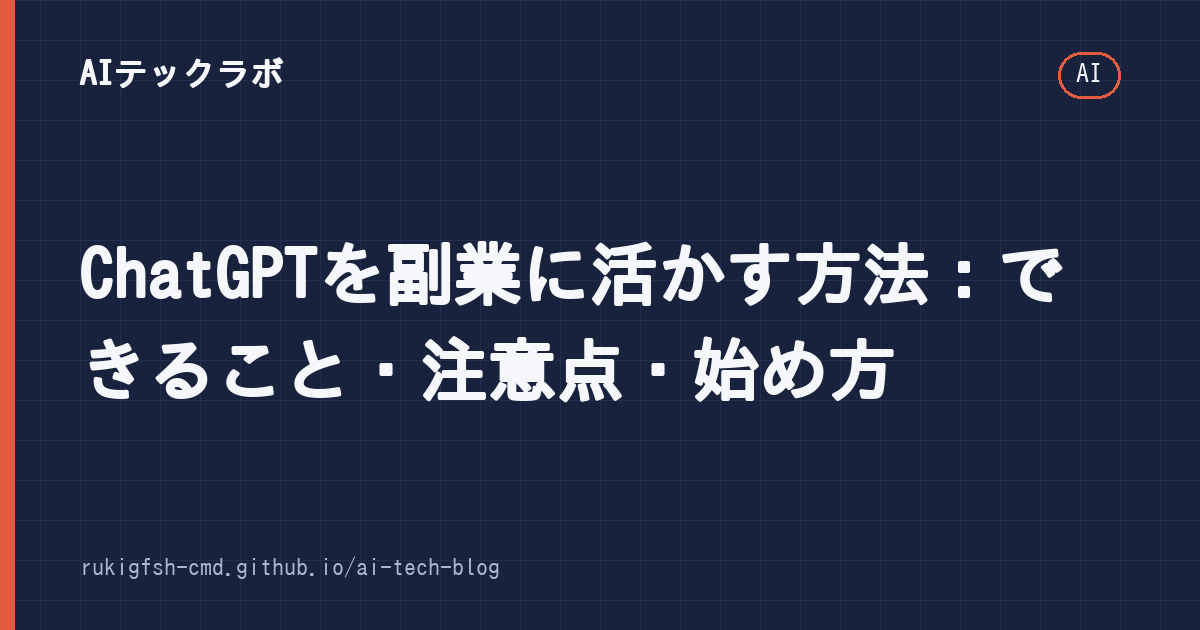
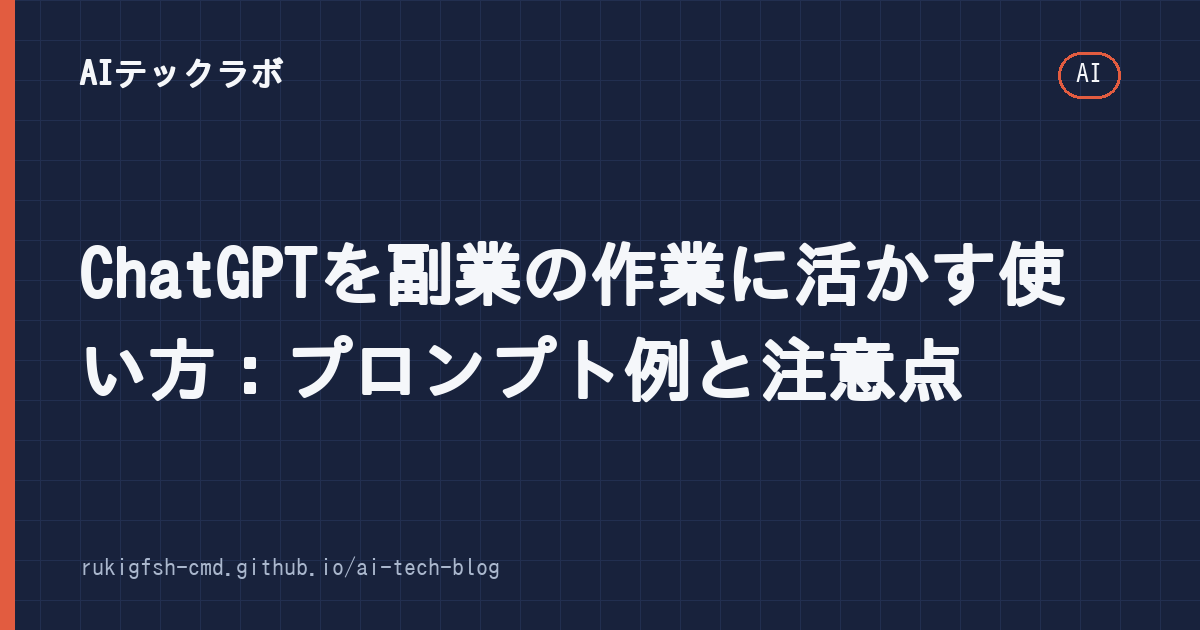
[auto-publish] ChatGPT副業記事を全面改稿（収益の約束・転載の推奨を削除し、作業別の使い方に）
Claude-Session: https://claude.ai/code/session_01LHbLs1fvDWffKN95ZTvk6U

Changed region(s): [[0.0617, 0.5127, 0.8017, 0.6333], [0.4317, 0.3619, 0.8942, 0.4825]]

diff --git a/_posts/2026-09-19-chatgpt-副業-活用.md b/_posts/2026-09-19-chatgpt-副業-活用.md
@@ -1,67 +1,155 @@
 ---
 layout: "post"
-title: "ChatGPTを副業に活かす方法：できること・注意点・始め方"
+title: "ChatGPTを副業の作業に活かす使い方：プロンプト例と注意点"
 date: "2026-09-19 00:00:00 +0900"
-description: "ChatGPTを使って副業を始める人が増えています。本文将介绍AIを使った具体的な収益化手法、必要なスキルと注意点"
+last_modified_at: 2026-11-19
+description: "ChatGPTを副業の「作業」に使う具体的な方法を、そのまま使えるプロンプト例つきで解説。提案文、下書き、校正、表計算、調べものの整理など。著作権・守秘・規約で失敗しないための注意点もまとめます。"
 categories:
   - AI
   - 副業
 tags:
   - ChatGPT
   - 副業
-  - 活用
+  - プロンプト
 author: "AIテックラボ編集部"
 image: "/assets/images/chatgpt-副業-活用.png"
+pr: false
 ---
 
-## 目次
+「ChatGPTで副業」と聞くと「AIに任せて自動で稼ぐ」ような話を想像しがちですが、現実的なのは**自分の副業の作業をChatGPTで速く・楽にする**使い方です。
 
-1. [1. AIエージェント作成でフリーランス市場参入](#1-aiエージェント作成でフリーランス市場参入)
-2. [2. コンテンツファーム運営](#2-コンテンツファーム運営)
-3. [3. プログラミングコード作成支援](#3-プログラミングコード作成支援)
-4. [4. SNS運用代行](#4-sns運用代行)
-5. [注意点とリスク](#注意点とリスク)
+この記事では、どんな副業でも使いやすい作業ごとの使い方を、そのまま使えるプロンプト（指示文）の例つきで紹介します。副業の選び方や税金などの全体像は「[AI副業の始め方]({% post_url 2026-10-07-ai-副業-始め方 %})」にまとめています。
 
----
+**最初に大事な前提**：ChatGPTを使っても、収入が保証されるわけではありません。仕事を取れるか、続けられるかは、品質・実績・やりとりの丁寧さで決まります。AIは「作業時間を短くする道具」と考えるのが失敗しないコツです。
 
-## 1. AIエージェント作成でフリーランス市場参入
+## 結論：AIに任せるのは「下書き」と「整理」、仕上げと確認は自分
 
-ChatGPTなどのLLM（大規模言語モデル）を活用した副業の最も確実な方法は「AIエージェント」制作です。
-企業は人手不足で自動化ツールを求めているため、以下のサービスが需要があります：
+| 作業 | ChatGPTが得意 | 自分でやること |
+|---|---|---|
+| 提案文・メール | 下書き、言い回しの改善 | 相手に合わせた中身、最終確認 |
+| 文章の仕事 | 構成案、下書き、言い換え、誤字チェック | 事実確認、独自の内容、仕上げ |
+| 表計算・資料 | 関数の作り方、表の整理 | 計算結果の確認 |
+| 調べもの | 論点の整理、質問リスト作り | 出典での確認（AIの答えをそのまま信じない） |
+| プログラム | 小さなコードの下書き、エラーの読み解き | 動作確認、テスト |
 
-- ウェブサイトのカスタマーサポートチャットボットの構築
-- SNS投稿の自動生成とスケジュール管理
-- 業務報告書の自動作成・整形
-- データ分析レポートの作成支援
+## 使い方1：クラウドソーシングの提案文を整える
 
-これらの制作料は10万〜30万円程度で取引されます。初級者でもテンプレートを活用すれば、1ヶ月で2〜3案件を獲得可能です。
+ランサーズやクラウドワークスなどで仕事に応募するとき、提案文の下書きや見直しに使えます。
 
-## 2. コンテンツファーム運営
+```text
+次の募集内容に応募する提案文を作りたいです。
+・私の経歴：（例：事務職5年、Excelでの集計作業が得意）
+・できること：（例：Excelの関数・ピボットテーブル、データ入力）
+・募集内容：（ここに募集文を貼る）
 
-SEO記事を書く時間を半減させる手法です。
-ChatGPTに「旅行ガイド」「レシピ」「育児Tips」などのテーマを指定し、人間らしさを持たせるように書かせます。
- afterwardly Google検索結果上位に表示され、広告収入を得る仕組みになります。
+条件：
+・400字以内、丁寧だが堅すぎない文体
+・募集内容のどこに自分が役立てるかを具体的に
+・できないことは書かない
+```
 
-注意点として、Googleのスパム対策により単純なAI生成コンテンツはペナルティを受けます。
-そのため「AIが書いた」と明記した上で、事実確認や独自体験を補足することが必須です。
+**注意**：経歴や実績を盛った文章をそのまま送るのは絶対にやめましょう。AIは書かれていない実績を「それらしく」補うことがあります。送る前に、事実と違う部分がないか必ず確認してください。
 
-## 3. プログラミングコード作成支援
+## 使い方2：文章の仕事の「構成案」と「下書き」
 
-開発者向けにコードサンプルやバグ修正提案を行うサービスがあります。
-StackOverflowなどのQ&Aサイトをスクレイピングし、ChatGPTで回答を再構成して有料コンテンツとして販売します。
+ライティングの仕事では、構成案づくりや、自分のメモを文章にする作業が速くなります。
 
-Pythonの自動化スクリプト、Reactのコンポーネント例など、技術的な価値があるものは特に需要が高いです。
+```text
+「在宅ワーク初心者向け・作業部屋の作り方」というテーマで、
+3,000字程度の記事の構成案（見出しと、各見出しで書く内容の要点）を作ってください。
+読者は、これから在宅ワークを始める会社員です。
+```
 
-## 4. SNS運用代行
+ただし、**AIの文章をそのまま納品するのは避けましょう**。
 
-企業のInstagramやTwitter運用は専門知識が必要です。
-ChatGPTに「ターゲット：20〜30歳の女性」「トーン：親しみやすく」「フォーマット：画像＋短文」などの指示を出し、投稿文案を生成します。
+- 事実の間違いが混ざることがあります（数字、制度、製品の情報など）。
+- 依頼主がAIの使用を禁止・制限している場合があります。**募集要項や契約で、AIを使ってよいか確認**してください。わからなければ質問しましょう。
+- 検索エンジン向けの記事なら、Google は中身の薄いページを大量に作ることを[スパムポリシー](https://developers.google.com/search/docs/essentials/spam-policies)で禁止しています。自分で確かめた情報や経験を加えることが大切です。
 
-1つのアカウントで複数のクライアントを受託すれば、月収5万以上も現実的でしょう。ただし、アカウント管理（ハッキング対策）のスキルが求められます。
+## 使い方3：校正と言い換え
 
-## 注意点とリスク
+書き上げた文章の誤字脱字チェックや、読みやすさの改善に向いています。
 
-- AI生成コンテンツは著作権問題が発生する可能性があります
-- クライアントには「AIをどう使うか」を説明し、信頼関係を築くことが重要
-- 完全自動化ではなく、人間による監修を入れるのが長続きのコツ
-- 税務署への申告漏れに注意（雑報収入として処理）
+```text
+次の文章の誤字脱字と、意味がわかりにくい箇所を指摘してください。
+修正案は「元の文 → 修正案」の形で、理由も一言添えてください。
+文章の内容や主張は変えないでください。
+
+（ここに文章を貼る）
+```
+
+「修正した全文を出して」と頼むと、気づかないうちに内容まで変わることがあります。**指摘だけをもらって、自分で直す**ほうが安全です。
+
+## 使い方4：Excel・スプレッドシートの関数を作る
+
+データ入力や集計の仕事で、関数やマクロの作り方を聞くのに便利です。
+
+```text
+Googleスプレッドシートで、A列に日付、B列に担当者名、C列に金額があります。
+担当者ごと・月ごとの合計金額を別のシートに表示したいです。
+使う関数と、入力する式を教えてください。
+```
+
+出てきた式は、**少ないデータで結果が正しいか確かめてから**本番のデータに使いましょう。
+
+## 使い方5：調べものの「整理」
+
+新しい分野の仕事を受けるときに、何を調べればいいかを整理するのに使えます。
+
+```text
+「インボイス制度」について、フリーランスの副業者が確認すべきポイントを
+質問リストの形で10個挙げてください。
+答えは書かず、質問だけにしてください。
+```
+
+答えそのものは、国税庁などの**公式な情報で確認**しましょう。ChatGPTは古い情報や間違った情報をもっともらしく答えることがあります。
+
+## 使い方6：お客さんとのやりとりの文面
+
+納期の相談、修正依頼への返信、お礼のメールなど、言葉選びに迷うときの下書きに使えます。
+
+```text
+クライアントから修正依頼が3回目に来ました。
+今回は対応しますが、次回以降は追加料金になることを、
+角が立たないように伝える返信文を作ってください。
+```
+
+## 使い方7：小さなプログラムやエラーの相談
+
+簡単な自動化スクリプトや、エラーメッセージの意味を聞くのに便利です。コードは**必ず自分の環境で動かして確認**し、他人のサーバーやサービスに負担をかける使い方（規約で禁止されたスクレイピングなど）は避けてください。
+
+自動化に興味があれば「[n8nの使い方入門]({% post_url 2026-09-16-n8n-自動化-使い方 %})」も参考になります。
+
+## やってはいけないこと
+
+### 1. 他人の文章やコードを集めて「作り直して」売る
+
+他サイトの記事やQ&Aの回答をAIで言い換えて販売するのは、著作権の侵害や各サイトの規約違反になるおそれがあります。AIを通しても、元の文章の権利がなくなるわけではありません。
+
+### 2. お客さんの秘密の情報をそのまま入力する
+
+依頼主から預かった資料や個人情報を、許可なくAIサービスに入力しないでください。契約で禁止されていることもあります。どうしても使う場合は、名前や数字を伏せる、依頼主に確認する、などの対応をしましょう。ChatGPTには会話を学習に使わせない設定もあります（設定画面の名称は変わることがあるので、OpenAI の公式ヘルプで確認してください）。
+
+### 3. 「AIで誰でも簡単に稼げる」と人に勧める
+
+根拠のない収益の約束は、トラブルのもとです。自分が情報発信をする場合も、収益の話は前提条件と幅を書きましょう。アフィリエイトなどで広告を含めるときは、ステマ規制（[消費者庁](https://www.caa.go.jp/policies/policy/representation/fair_labeling/stealth_marketing/)）に従って「広告」「PR」と表示する必要があります。
+
+### 4. サービスごとのAIルールを無視する
+
+出品・納品先のサービスにはAIに関するルールがあります。たとえばココナラでは、AIで生成したイラストの納品が禁止されています（[ココナラのお知らせ](https://coconala.com/news/917)）。使う前に、各サービスの最新ルールを確認しましょう。
+
+## うまく使うためのコツ
+
+- **条件を具体的に書く**：文字数、読者、文体、やってほしくないこと。
+- **一度で完璧を求めない**：「もっと短く」「例を1つ足して」と会話で直していく。
+- **自分の型を保存する**：よく使う指示文をメモ帳などにためておくと、毎回の作業が速くなります。
+
+指示の書き方は「[プロンプトエンジニアリング入門]({% post_url 2026-09-27-プロンプトエンジニアリング-入門 %})」で詳しく解説しています。ChatGPT以外のAIとの違いは「[Claude・ChatGPT・Geminiの違いと使い分け]({% post_url 2026-10-08-claude-ai-比較 %})」をどうぞ。
+
+## まとめ
+
+- ChatGPTは「自動で稼ぐ道具」ではなく、「副業の作業を速くする道具」
+- 下書き・整理・校正・関数づくりが得意。事実確認と仕上げは自分で
+- 依頼主のAIルール、秘密の情報の扱い、著作権、各サービスの規約を必ず守る
+
+副業の所得が一定額を超えると確定申告が必要になる場合があります。税金については「[AI副業の始め方]({% post_url 2026-10-07-ai-副業-始め方 %})」の注意点をご覧ください。

diff --git a/automation/state/content-audit.md b/automation/state/content-audit.md
@@ -10,7 +10,7 @@
 - [x] `_posts/2026-10-11-rag-構築-入門.md`（2026-11-19 chromadb 1.5.9 で実行確認したコードに全面書き直し。LLM呼び出し部分のみ未検証） — 存在しないAPI（`from chromadb import ChromaDB`、`ChromaVectorStoreRetriever` など）を含む。現行の chromadb / LangChain の正しいコードに書き直し、コンテナで実行して確認する。「2023年末時点のトレーニングデータ」など古い記述も直す。
 - [ ] `_posts/2026-09-07-ai画像-販売-方法.md` — 本文の「月30万円以上」など根拠のない収益表現を削除。販売先ごとの AI 生成物ルール（BOOTH、PIXTA、Adobe Stock など）を出典付きで正確に。
 - [x] `_posts/2026-10-07-ai-副業-始め方.md`（2026-11-19 全面改稿。確定申告の誤り「200万円」も修正） — 「初心者でも月3〜5万円程度は安定して稼げます」など根拠のない表現を削除し、前提条件と幅で書く。ステマ規制・確定申告（副業所得が年20万円を超える場合など）の注意を追記。
-- [ ] `_posts/2026-09-19-chatgpt-副業-活用.md` — 同上（収益の約束をしない）。
+- [x] `_posts/2026-09-19-chatgpt-副業-活用.md`（2026-11-19 全面改稿。収益の約束・コンテンツファーム・他サイトの転載を勧める記述を削除し、作業別の使い方＋プロンプト例に） — 同上（収益の約束をしない）。
 - [ ] `_posts/2026-09-26-キーボード-メカニカル-おすすめ.md` — 見出しに「タイトル：【2024年版】」という生成ミスの残骸。2026年時点の製品情報で書き直し、商品リンクを `{% include amazon.html %}` に。
 - [ ] `_posts/2026-10-02-gemini-google-ai-特徴.md` — 見出し「完全オフライン対応」、description「検索対応なし」など事実と逆の記述。Gemini の現行機能・料金（Google AI Plus / Pro）で書き直す。（2026-11-19 追加）
   - 2026-11-19: 事実と逆だった「検索機能がない」「完全オフライン対応」の記述は応急処置で修正済み。残りの全面書き直し（画像生成・料金など現行の情報）が必要。
